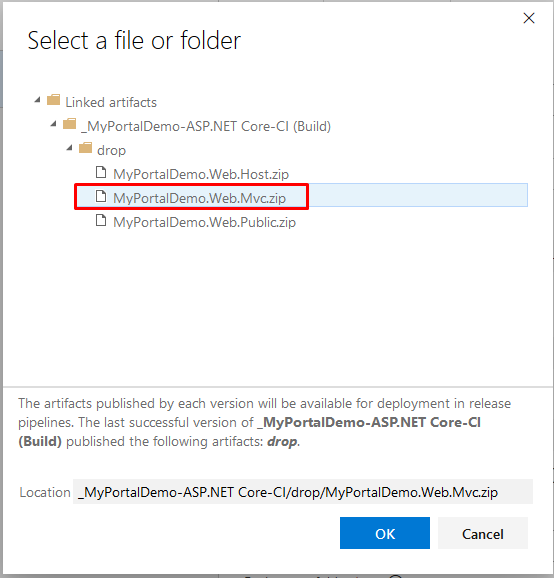
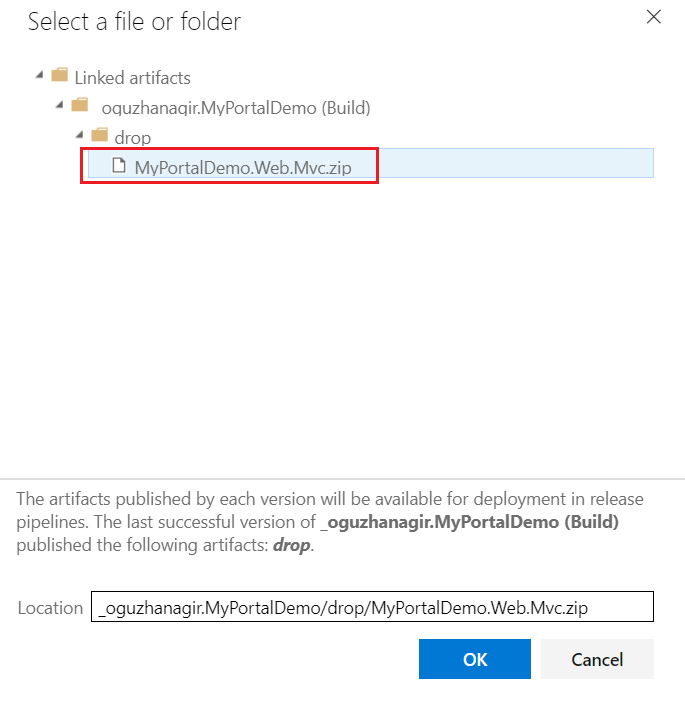
upgraded azure pipeline deployment document

Changed region(s): [[0.0, 0.0, 1.0, 1.0]]

diff --git a/docs/en/Setting-Up-an-Azure-Pipeline-Mvc-Core.md b/docs/en/Setting-Up-an-Azure-Pipeline-Mvc-Core.md
@@ -6,15 +6,48 @@ In this tutorial, we will see how to create an Azure CI/CD pipeline for a fresh 
 
 Azure Pipelines let us to create different jobs which automates CI/CD processes. There are plenty of predefined tasks by Microsoft and by third party vendors. It helps you to continuously build, test and deploy to any platform and cloud. See https://azure.microsoft.com/en-us/services/devops/pipelines/
 
-### GitHub user? You’re covered.
 
-If you are using GitHub as your source-control system, things are way more faster. Azure Pipelines can fetch the source from your GitHub. And it’s free for 10 parallel jobs and unlimited minutes for open source projects. Check out [https://github.com/marketplace/azure-pipelines](https://github.com/marketplace/azure-pipelines/)
-
-Click the “**Install it for free”** button to continue…
-
-![GitHub Extension](images/azure-pipelines-github-extension.png)
+## Prerequisites
 
 
+Before the deployment process through your project's pipeline, Azure App Service and Azure SQL Database must be ready. If they are not ready yet, you need to create them by following the instructions below:
+
+[Create a new Azure SQL Database](https://learn.microsoft.com/en-us/azure/azure-sql/database/single-database-create-quickstart?view=azuresql&tabs=azure-portal)
+
+## Creating an Azure Web App Service
+
+To create a new Azure Web App Service, visit the  [Azure Portal](https://portal.azure.com/) and follow the instructions. 
+
+After signing in to your Azure account, you can directly create a **Web App** by clicking the **Create Resource** button.
+
+
+![Create Resources](images/azure-pipelines-create-resources.png)
+
+
+Entering **Web App** in the search bar, click the **Create** button as indicated below.
+
+![Search Web App](images/azure-pipelines-search-web-app.png)
+
+After filling in the required fields, click on the **Review + Create** button.
+
+![Create Web App](images/azure-pipelines-create-web-app.png)
+
+After creating the **Web App service**, you can find the information related to the service below.
+
+![View Web App](images/azure-pipelines-view-web-app.png)
+
+
+## Configuring ASP.NET Zero Project Settings
+
+
+It is necessary to replace the `ConnectionString` values in your project with the **SQL Server** information created in the **Azure portal**. The `ConnectionString` is located in the `appsettings.json` file. You can change it as follows
+
+```json
+"ConnectionStrings": {
+    "Default": "Server=tcp:yourserver.database.windows.net,1433;Initial Catalog=yourdatabase;Persist Security Info=False;User ID=yourusername;Password=yourpassword;MultipleActiveResultSets=False;Encrypt=True;TrustServerCertificate=False;Connection Timeout=30;"
+}
+
+```
 
 ## Start Your New Azure Pipeline
 
@@ -28,31 +61,36 @@ After you authenticate, you will see the new project screen. Enter your project 
 
 ![Create project](images/azure-pipelines-create-project.png)
 
+### Select Your Pipeline Menu 
+
+After creating the project, select Pipelines from the menu on the left side. Once you've done that, click on the New Pipeline button.
+
+![Select Pipeline](images/azure-pipelines-select-menu.png)
+
 ### Choose your source-code hosting service
 
-Choose **Use the classic editor** to create a pipeline without YAML.
+Choose **Github** to create a pipeline with YAML.
 
 ![Connect to GitHub](images/azure-pipelines-connect.png)
 
 After that it will ask authorization to Azure Pipelines. After successful authorization, you will be redirected to your repository list. Select your repository for  `MyPortalDemo`. If you have not committed your project to GitHub, you can do it now.
 
-![Select source 1](/images/azure-pipelines-select-source-1.png)
+
+Then you will be able to see the list of your repositories on GitHub. Choose your repository.
+
+![Select source 1](images/azure-pipelines-select-source.png)
 
 Grant permission to your repositories with OAuth.
 
-![Grant permission to Azure Pipelines](images/azure-pipelines-authorize.png)
-
-Then you will be able to see the list of your repositories on GitHub. Choose your repository and click **Continue**.
-
-![Select source 1](/images/azure-pipelines-select-source-2.png)
-
+![Repository Permission](images/azure-pipelines-repository-permission.png)
 
 
 ### Choose your template
 
-The next step is choosing a template... We will choose the template **ASP.NET Core**. To find it type `ASP.NET Core` to the search box and then click the **Apply** button.
+The next step is choosing a template... We will choose the **ASP.NET Core** template. After clicking on **Show more** look for the `ASP.NET Core` option and then click.
 
-![Choose a template](/images/azure-pipelines-choose-template.png)
+![Choose a template](images/azure-pipelines-choose-template.png)
+
 
 
 
@@ -60,53 +98,68 @@ The next step is choosing a template... We will choose the template **ASP.NET Co
 
 After the template is being created, you will see the below auto-generated pipeline steps.
 
-![Pipeline steps](/images/azure-pipelines-pipeline-steps.png)
+![Pipeline steps](images/azure-pipelines-review-default-yaml.png)
 
+You can edit the default ***.yaml** file as specified below.
 
+![Pipeline steps](images/azure-pipelines-first-yaml.png)
 
-As you see from the above image, **Some settings need attention**. Click that link which will redirect to source selection screen. We will again choose GitHub and pick our repository by clicking `...` button.
-
-![Configure GitHub repository](/images/azure-pipelines-configure-gitbub2.png)
-
+After specifying, you can add the indicated section under `steps:`.
 
 
 Other important setting is the **Project(s) to build and restore**. The default setting is `**/*.csproj` but this will break build process because Xamarin projects don't build with `dotnet build` command but need to be built with `msbuild`. So we need to build only the `*.Web.Mvc` project. For that, change it to `**/MyPortalDemo.Web.Mvc.csproj` as seen below.
 
-![Set Web.MVC project to build](/images/azure-pipelines-set-mvc-project.png)
+Configure the **Restore** task as specified.
 
+![Set Web.MVC project to restore](images/azure-pipelines-set-mvc-project-restore.png)
 
+Configure the **Build** task as specified and add it as well.Additionally, here the `--configuration $(BuildConfiguration)` **argument** should be specified.
+
+![Set Web.MVC project to build](images/azure-pipelines-set-mvc-project-build.png)
+
+Add the path of the **Test** project by specifying it as `**/[Tt]ests/.csproj`.
+
+![Set Web.MVC project to test](images/azure-pipelines-set-mvc-project-test.png)
+
+Add the path of the **Publish** project.
+
+![Set Web.MVC project to test](images/azure-pipelines-set-mvc-project-publish.png)
+
+Add the path of the **Publish Artifact** project
+
+![Set Web.MVC project to test](images/azure-pipelines-set-mvc-project-publish-artifact.png)
 
 ### Additional pipeline steps for the MVC project
 
 There are 3 additional steps we must add for ASP.NET Zero Core MVC project.
 
+First, visit the marketplace to install the Yarn extension for your Azure DevOps organization. You can find it at https://marketplace.visualstudio.com/azuredevops.
+
+
+Click on the **Get it free** button to install the necessary extension for your organization.
+
+![Add new task](images/azure-pipelines-add-marketplace-yarn.png)
+
 1. #### **Execute Yarn Task**
 
-   For the MVC project, we have to run `yarn`  command in the `src/MyPortalDemo.Web.Mvc` folder. To do this click the `+` icon on top of the task list.
+   For the MVC project, we have to run `yarn`  command in the `src/MyPortalDemo.Web.Mvc` folder. To do this click the `Show asisstant` icon on top of the task list.
 
-   ![Add new task](/images/azure-pipelines-add-new-task.png)
+   ![Add new task](images/azure-pipelines-show-assistant.png)
 
-   
+   Write **yarn** into the search textbox and click on the **Yarn task** to install this new Yarn task.
 
-   Write `yarn` to the search textbox and click the **Get it free** button to install this new `yarn` task.
+   ![Install yarn](images/azure-pipelines-add-yarn-task.png)
 
-   ![Install yarn](/images/azure-pipelines-add-yarn-task.png)
 
-   
+   After adding it, the new Yarn task is placed at the end. Move it after the **Build** step. Then, enter `src/MyPortalDemo.Web.Mvc` in the Project Directory. This step is completed.
 
-   After you install it, go back to original portal and refresh the page. Click the `+` again. Write `yarn` to the search textbox again. Now, you will be able see **Add** button. Click **Add** button to continue.
-
-   ![Add yarn task](/images/azure-pipelines-add-yarn-task2.png)
-
-   After you add it, the new Yarn task comes to the end. Move it after **Build** step by drag & drop. Then write `src/MyPortalDemo.Web.Mvc`  to the **Project Directory**. This step is done. 
-
-   ![Yarn task](/images/azure-pipelines-add-yarn-task3.png)
+   ![Yarn task](images/azure-pipelines-add-yarn-task2.png)
 
    
 
    Save the changes by clicking **Save** button on the toolbar.
 
-   ![Save pipeline](/images/azure-pipelines-save.png)
+   ![Save pipeline](images/azure-pipelines-save.png)
 
    
 
@@ -116,21 +169,20 @@ There are 3 additional steps we must add for ASP.NET Zero Core MVC project.
 
    To add NPM Run Build task, write `command line` to the search textbox. Click the **Add** button of **Command Line** item.
 
-   ![Add command line task](/images/azure-pipelines-add-npm-run-build-task.png)
+   ![Add command line task](images/azure-pipelines-add-npm-run-build-task.png)
 
    
 
-   It will append it after right after the **Yarn** task. If it comes to the end, you need to drag & drop it after **Yarn** task. See the below screenshot for the right order.
+   It will append it after right after the **Yarn** task. If it comes to the end, you need to move it after **Yarn** task.
 
-   You can write any meaningful text to the **Display name** (eg: "NPM Run Build task")
-   and for the **Script** write:
 
    ```bash
    cd src/MyPortalDemo.Web.Mvc
    npm run build
    ```
 
-   ![NPM Run Build Task](/images/azure-pipelines-add-npm-run-build-task2.png)
+
+   ![NPM Run Build Task](images/azure-pipelines-add-npm-run-build-task2.png)
 
    
 
@@ -138,65 +190,27 @@ There are 3 additional steps we must add for ASP.NET Zero Core MVC project.
 
    ![Save pipeline](images/azure-pipelines-save.png)
 
-   
+3. ### **Run Migrator**
 
-   
+   To run the ***Migrator** project here, a **CMD line** is required. Let's create it as specified below.
 
-3. #### **Generate Migration Scripts Task**
+   ![Run Migrator](images/azure-pipelines-run-migrator.png)
 
-   This is the last task! This task will generate SQL scripts into a file and we will run it against our database. For this task, we need to install a third party extension. Write `Entity Framework Core Migrations Script Generator` to the search textbox and click the **Get it free** button as seen on the below screenshot.
+   ```bash
+   cd src/MyPortalDemo.Migrator
+   echo "y" | dotnet run --project MyPortalDemo.Migrator.csproj 
+   ```
 
-   ![Generate Migration Scripts 1](/images/azure-pipelines-add-ef-core-generate-migration-script.png)
+   The part indicated as `"y"` implies acceptance on all tenants in the host database.
 
-   
 
-   After you install it, go back to your original portal and refresh the page. Now click the `+` again. Write `Entity Framework Core Migrations Script` to the search textbox again. Now, you will see **Add** button. Click **Add** button to continue.
+After clicking the **Save** button on the toolbar, press the **Run** button. The pipeline will start for the first time.
 
-   ![Generate Migration Scripts 2](/images/azure-pipelines-add-ef-core-generate-migration-script2.png)
-
-   
-   
-   Move this new task after the **Publish** task by drag & drop. See the below screenshot. 
-   
-   Make the following configurations:
-
-   * **Display name**: Generate Migration Scripts
-* **Main Project Path**: `src/MyPortalDemo.EntityFrameworkCore/MyPortalDemo.EntityFrameworkCore.csproj`
-   
-   * **DbContexts**: `MyPortalDemoDbContext`
-   
-* **Startup Project Path**: `src/MyPortalDemo.Web.Mvc/MyPortalDemo.Web.Mvc.csproj`
-   * **Target Folder**: `$(build.artifactstagingdirectory)/migrations`
-   
-   ![Generate Migration Scripts 3](/images/azure-pipelines-add-ef-core-generate-migration-script3.png)
-   
-   
-   
-   Save the changes by clicking the **Save** button on the toolbar.
-   ![Save changes](/images/azure-pipelines-save.png)
+![Save and queue](images/azure-pipelines-save-queue.png)
 
 
 
-IMPORTANT NOTE: If your project is a .NET Core 3.x project, dotnet-ef tool must be installed using the Azure pipelines, so that "Generate Migration Scripts Task" can generate migration scripts using this tool. Normally, an `Entity Framework Core Migrations Script Generator` step contains a selection for installing this tool but it doesn't work. So, first thing to do here is not selecting "**Install dependencies for .NET Core 3**" option for "Generate Migration Scripts Task". 
-
-After that, add a new Command Line item just before "Generate Migration Scripts Task" and change it's content as below;
-
-````bash
-dotnet new tool-manifest
-dotnet tool install --local dotnet-ef
-````
-
-We are ready to run the job for the first time. Click **Save & queue** button on toolbar. The pipeline will start for the first time.
-
-![Save and queue](/images/azure-pipelines-save-queue.png)
-
-
-
-Alternatively you can run your job by pressing **Queue** button on the toolbar.
-
-![Queue](/images/azure-pipelines-queue2.png)
-
-![Job result](/images/azure-pipelines-job-result.png)
+![Job result](images/azure-pipelines-job-result.png)
 
 
 
@@ -204,23 +218,24 @@ So far, we have created a pipeline to get our project from GitHub, build, yarn, 
 
 **Before starting this step, we assume that you have already created a web app on Azure App Services and set up your database**.
 
-![Job result](/images/azure-pipelines-new-pipeline.png)
 
 ### Create release pipeline
 
 Select Azure App Service deployment template.
 
-![Azure App Service deployment](/images/azure-pipelines-azure-appservice.png)
+![Azure App Service deployment](images/azure-pipelines-azure-appservice.png)
 
 #### Add an artifact
 
 Click **Add an artifact** button and choose the related project as source.
 
-![Add artifact](/images/azure-pipelines-add-artifact.png)
+![Add artifact](images/azure-pipelines-add-artifact.png)
 
-Then click the default stage to edit.![Configure stage](images/azure-pipelines-configure-stage.png)
+Then click the default stage to edit.
 
-On the new release pipeline, you will see **Deploy Azure App Service** options. Select your Azure subscription and then authorize it. Set `Web App on Windows` as your app type. Then pick your app service name from the list. Finally click **Save** button.
+![Configure stage](images/azure-pipelines-configure-stage.png)
+
+On the new release pipeline, you will see **Deploy Azure App Service** options. Select your Azure subscription and then authorize it. Set `Web App on Linux` as your app type. Then pick your app service name from the list. Finally click **Save** button.
 
 ![Configure stage](images/azure-pipelines-deploy-azure-app-service.png)
 
@@ -228,35 +243,13 @@ On the new release pipeline, you will see **Deploy Azure App Service** options. 
 
 #### Choose Web.Mvc package for releasing
 
-One important setting is the **package or folder** setting. ASP.NET Zero solution comes with 3 different web projects: `*.Web.Mvc`, `*.Web.Host` and `*.Web.Public`. We will release `*.Web.Mvc`. To set that package click the `...` button on the **Package or folder** row.
+One important setting is the **package or folder** setting. We will release `*.Web.Mvc`. To set that package click the `...` button on the **Package or folder** row.
 
 ![Configure stage](images/azure-pipelines-pick-output-zip.png)
 
 Choose  `*.Web.Mvc` and then click **Save** button on the top toolbar.
 
 ![Configure stage](images/azure-pipelines-pick-web-mvc.png)
-
-
-
-#### Web deploy as your deployment method
-
-There's an additional deployment option: **Deployment method**. Check that you have configured your deployment method as **Web deploy**. If you don't set this option (*by default it's not set to Web Deploy*), you cannot use the file system to write logs. Although writing logs to file system is not recommended for Azure, it may require you while you startup your project for the first time. (If you want to read more about logging on Azure, check out  https://docs.microsoft.com/en-us/azure/security/azure-log-audit.)
-
-![Configure stage](images/azure-pipelines-web-deploy.png)
-
-
-
-#### Running the database migrations
-
-We will add another task to run the migration script against our database. For this task click the `+` button and write `Azure SQL Database Deployment` to the search textbox. And then click the **Add** button next to **Azure SQL Database Deployment** task.
-
-![Add Azure SQL Database Deployment task](images/azure-pipelines-add-sql-db-deployment.png)
-
-
-
-After adding this task. Configure this step as seen below:
-
-![Azure SQL task](images/azure-pipelines-azure-sql-task.png)
 
 
 
@@ -272,17 +265,12 @@ Now we are done! Click the **Create release** button on the top toolbar and clic
 
 ![Configure stage](images/azure-pipelines-create-release.png)
 
+After clicking on the `Create Release` button, select the stage and click on the `Create` button.
+
+![Configure stage](images/azure-pipelines-create-release2.png)
 
 
 When you see the green tick for your release, it means it's successfully completed.
 
 ![Configure stage](images/azure-pipelines-release-success.png)
-
-
-
-### Conclusion
-
-We have successfully set up an Azure Pipeline for an ASP.NET Zero MVC Core project. You can start this pipeline by clicking **Queue** button on the **Builds** menu. But you can also, enable continuous integration by clicking the relevant checkbox in the **Triggers** tab. We will not cover this feature. 
-
-To run the whole process, go to **Builds** menu and on the top-right, there is **Queue** button. Click to start your job. ![Queue](images/azure-pipelines-queue.png)
 
